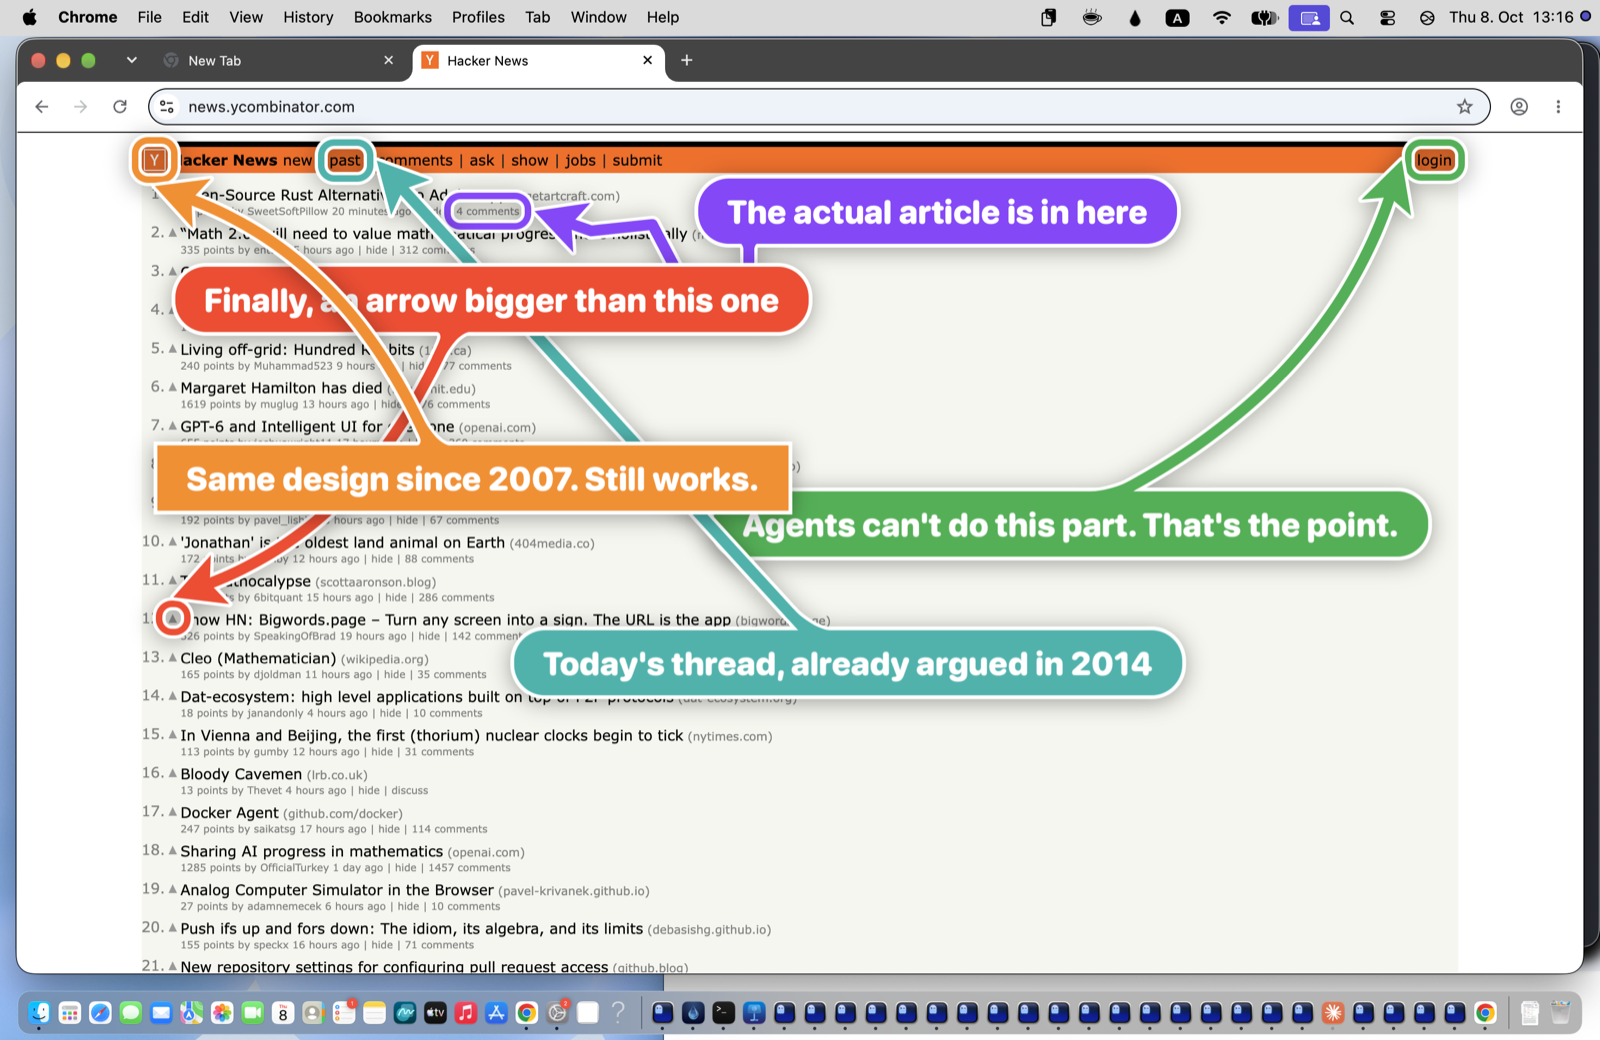
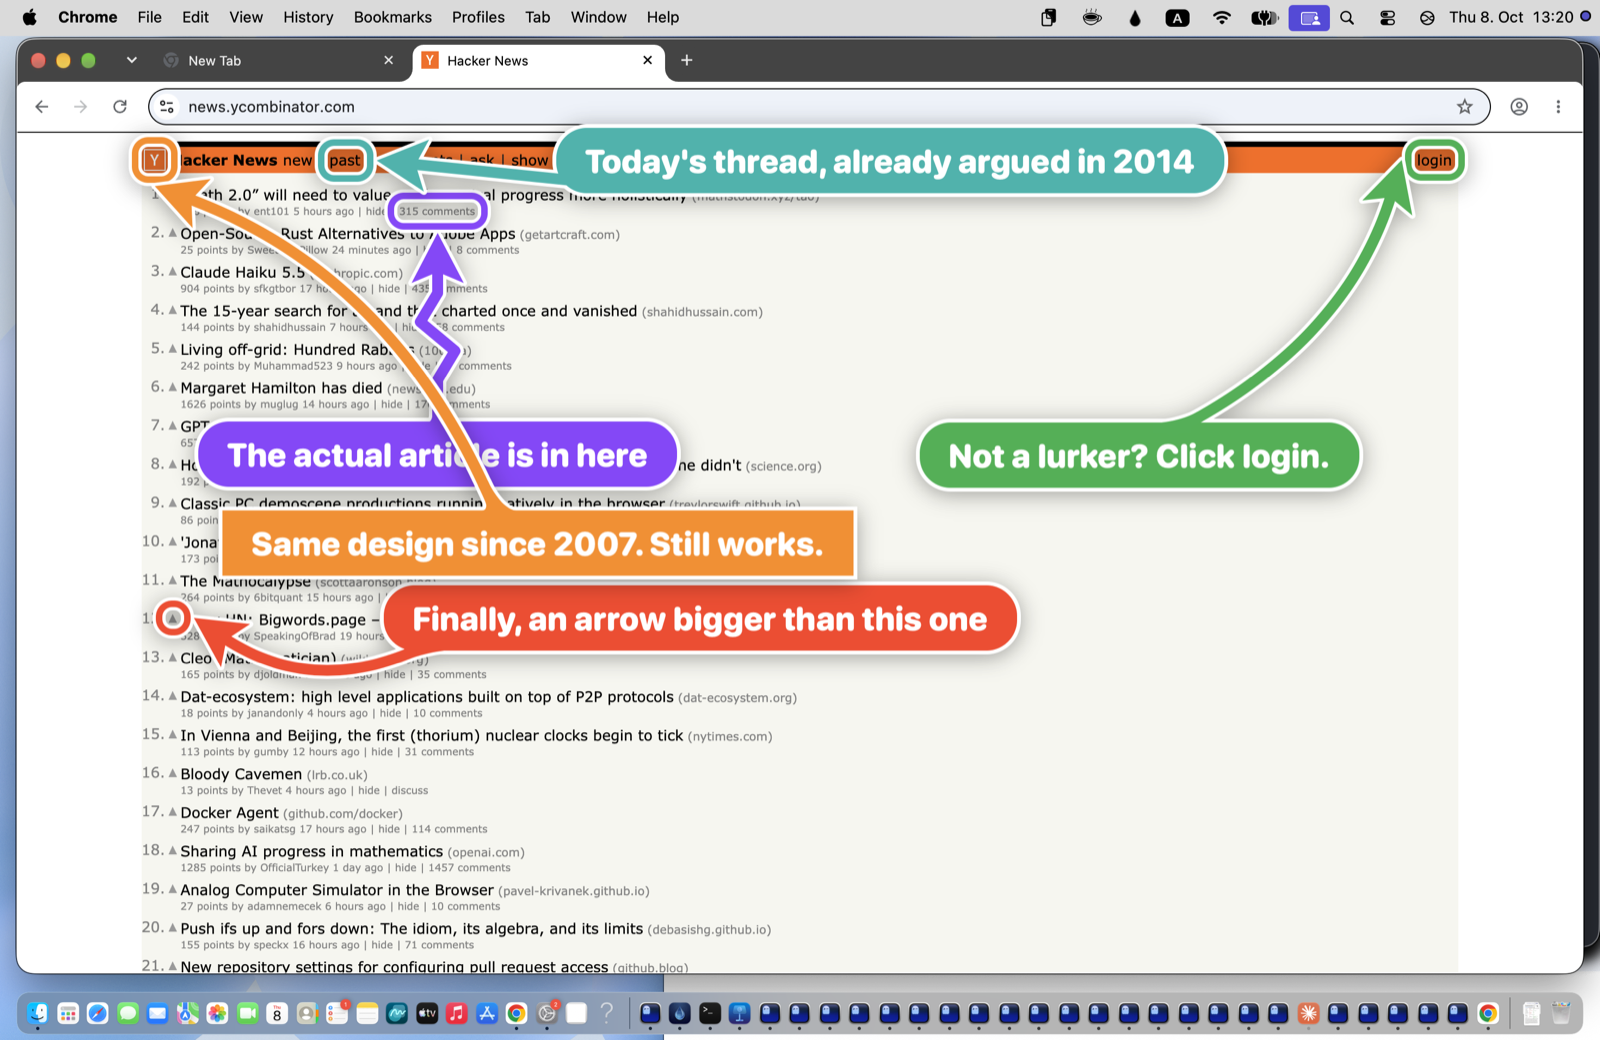
README headline: let your AI agents paint big arrows, boxes and text on your screen; hero with the login sign

Changed region(s): [[0.0938, 0.0923, 0.9062, 0.7077], [0.0, 0.9538, 0.9688, 0.9846], [0.8438, 0.1846, 0.875, 0.2462]]

diff --git a/README.md b/README.md
@@ -1,9 +1,11 @@
-# big-arrow-on-the-screen
+# Let your AI agents paint big arrows, boxes and text on your screen
+
+**big-arrow-on-the-screen** (`bigarrow`): one small macOS CLI and an agent skill. Click-through, never steals the focus, gone by itself. MIT.
 
 [![CI](https://github.com/franzenzenhofer/big-arrow-on-the-screen/actions/workflows/ci.yml/badge.svg)](https://github.com/franzenzenhofer/big-arrow-on-the-screen/actions/workflows/ci.yml)
 [![License: MIT](https://img.shields.io/badge/license-MIT-blue.svg)](LICENSE)
 
-![Hacker News with five bigarrow arrows: the actual article is in here, finally an arrow bigger than this one, same design since 2007, today's thread already argued in 2014, agents can't do this part](docs/images/hero-hn.png)
+![Hacker News with five bigarrow arrows: the actual article is in here, finally an arrow bigger than this one, same design since 2007, today's thread already argued in 2014, not a lurker? click login](docs/images/hero-hn.png)
 
 > Your AI agent can refactor a monorepo, write a migration and explain monads, but when it needs you to click one button it prints *"please click Allow in the dialog"* into a terminal you are not looking at. `bigarrow` gives it a finger.
 
